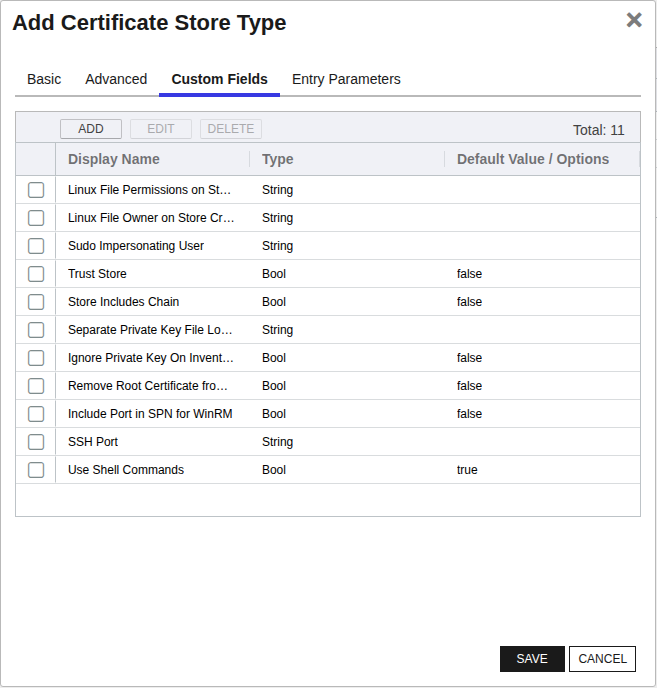
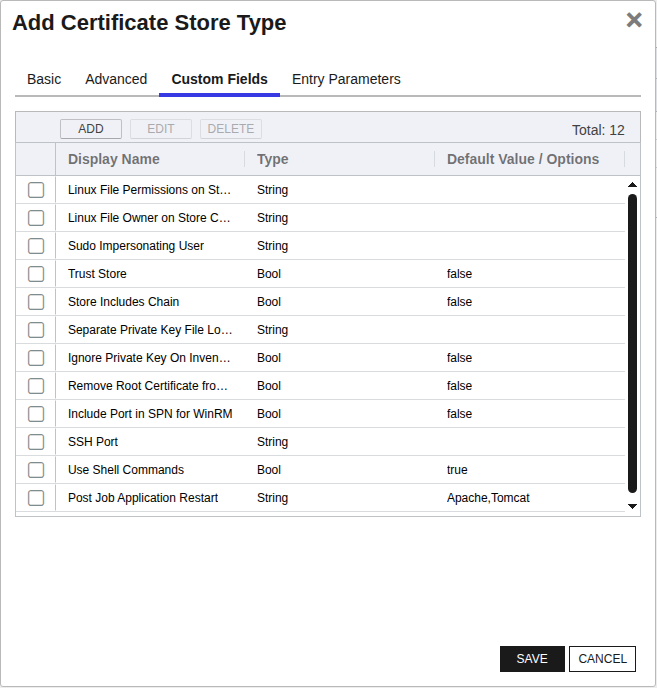
Update generated docs

diff --git a/README.md b/README.md
@@ -479,6 +479,7 @@ the Keyfactor Command Portal
    | IncludePortInSPN | Include Port in SPN for WinRM | Internally set the -IncludePortInSPN option when creating the remote PowerShell connection. Needed for some Kerberos configurations. | Bool | False | 🔲 Unchecked |
    | SSHPort | SSH Port | Integer value representing the port that should be used when connecting to Linux servers over SSH.  Overrides SSHPort [config.json](#post-installation) setting. | String |  | 🔲 Unchecked |
    | UseShellCommands | Use Shell Commands | Recommended to be set to the default value of 'Y'.  For a detailed explanation of this setting, please refer to [Use Shell Commands Setting](#use-shell-commands-setting) | Bool | True | 🔲 Unchecked |
+   | PostJobApplicationRestart | Post Job Application Restart | Select the service that will be restarted after a Management Add or ODKG job executes.  Leave unselected if no restart is desired. | MultipleChoice | Apache,Tomcat | 🔲 Unchecked |
 
    The Custom Fields tab should look like this:
 
@@ -579,6 +580,13 @@ the Keyfactor Command Portal
    Recommended to be set to the default value of 'Y'.  For a detailed explanation of this setting, please refer to [Use Shell Commands Setting](#use-shell-commands-setting)
 
    ![RFPEM Custom Field - UseShellCommands](docsource/images/RFPEM-custom-field-UseShellCommands-dialog.png)
+
+
+
+   ###### Post Job Application Restart
+   Select the service that will be restarted after a Management Add or ODKG job executes.  Leave unselected if no restart is desired.
+
+   ![RFPEM Custom Field - PostJobApplicationRestart](docsource/images/RFPEM-custom-field-PostJobApplicationRestart-dialog.png)
 
 
 
@@ -1565,6 +1573,7 @@ Please refer to the **Universal Orchestrator (remote)** usage section ([PAM prov
    | IncludePortInSPN | Internally set the -IncludePortInSPN option when creating the remote PowerShell connection. Needed for some Kerberos configurations. |
    | SSHPort | Integer value representing the port that should be used when connecting to Linux servers over SSH.  Overrides SSHPort [config.json](#post-installation) setting. |
    | UseShellCommands | Recommended to be set to the default value of 'Y'.  For a detailed explanation of this setting, please refer to [Use Shell Commands Setting](#use-shell-commands-setting) |
+   | PostJobApplicationRestart | Select the service that will be restarted after a Management Add or ODKG job executes.  Leave unselected if no restart is desired. |
 
 </details>
 
@@ -1604,6 +1613,7 @@ Please refer to the **Universal Orchestrator (remote)** usage section ([PAM prov
    | Properties.IncludePortInSPN | Internally set the -IncludePortInSPN option when creating the remote PowerShell connection. Needed for some Kerberos configurations. |
    | Properties.SSHPort | Integer value representing the port that should be used when connecting to Linux servers over SSH.  Overrides SSHPort [config.json](#post-installation) setting. |
    | Properties.UseShellCommands | Recommended to be set to the default value of 'Y'.  For a detailed explanation of this setting, please refer to [Use Shell Commands Setting](#use-shell-commands-setting) |
+   | Properties.PostJobApplicationRestart | Select the service that will be restarted after a Management Add or ODKG job executes.  Leave unselected if no restart is desired. |
 
 3. **Import the CSV file to create the certificate stores**
 
